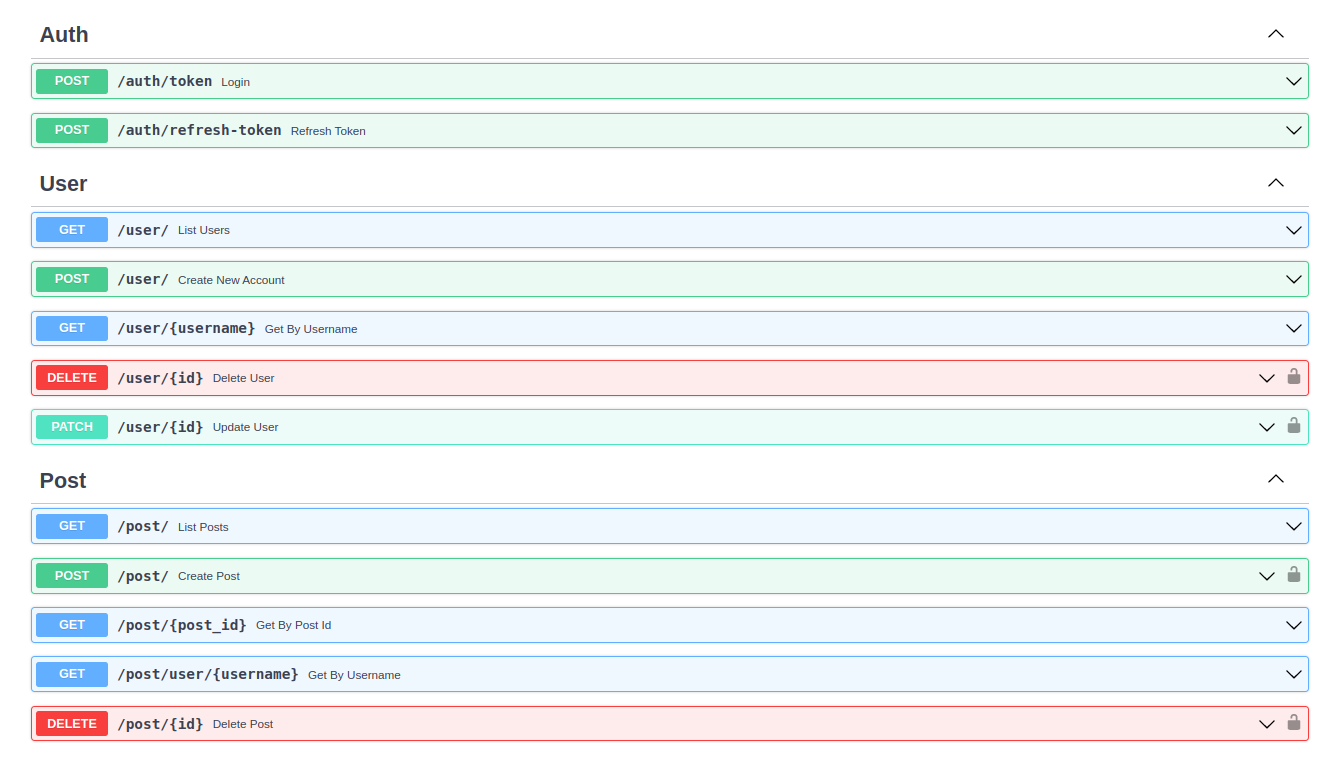
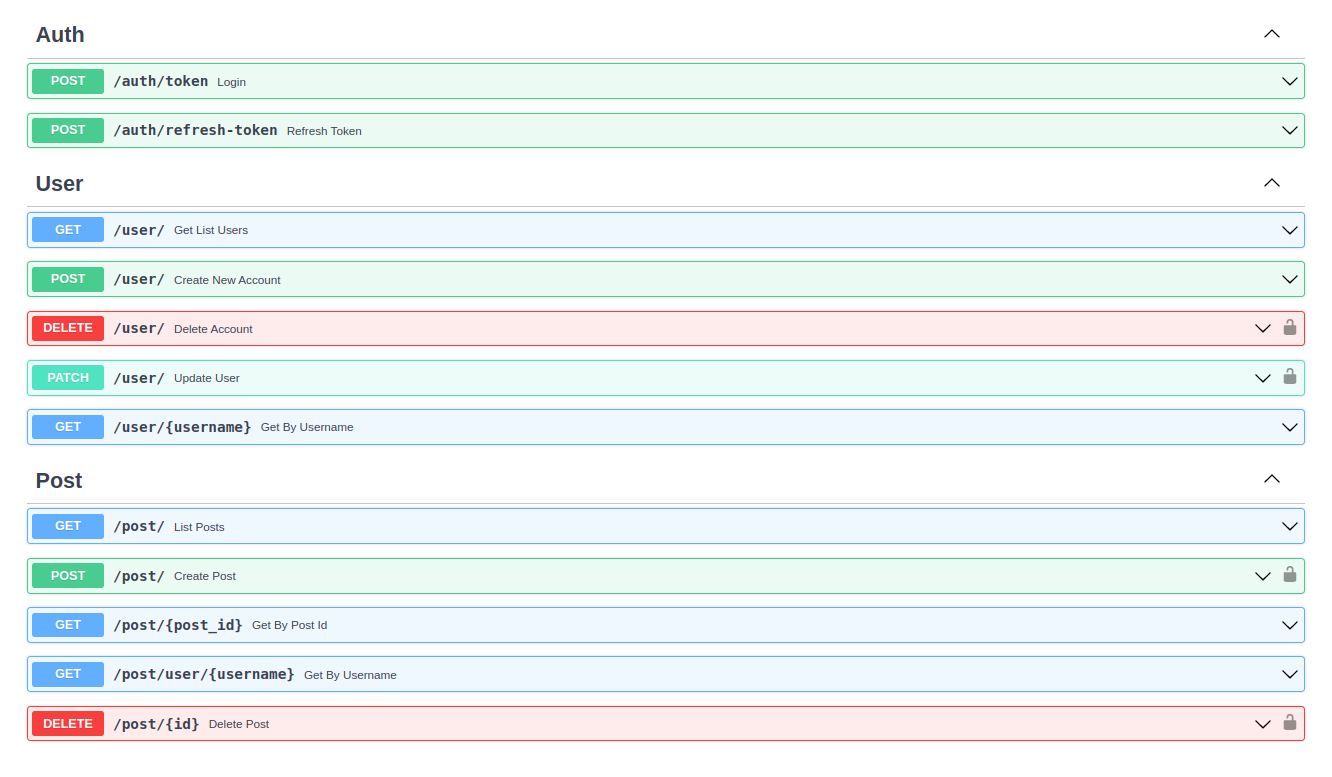
docs: update(README, Tasks, Tests, Endpoints.png)

diff --git a/fastapi/docs/README.md b/fastapi/docs/README.md
@@ -1,31 +1,59 @@
 # FastAPI
 
+
+![](endpoints.png)
+
 Aplicação WEB - API usando FastAPI
+
+O projeto será modelado no contexto de um Blog, afim de utilizar CRUD nas routes e diferentes tipos de Relacionamentos do banco de dados.
 
 > - Para construir o projeto isolei cada aplicação em seu próprio ecosistema e embiente virtual. 
 > - Ambos possuem a mesma estrutura e finalidade, porém aplicadas em Frameworks diferentes.
+
+> [Progresso das **Tarefas**](tasks.md)
+
+> [Progresso dos **Testes**](tests.md)
 
 ---
 ## Resumo 
 - [FastAPI](#fastapi)
   - [Resumo](#resumo)
-  - [Requisitos](#requisitos)
-  - [Ambiente](#ambiente)
   - [Funcionalidades](#funcionalidades)
     - [Usuários](#usuários)
     - [Postagens](#postagens)
+  - [Requisitos](#requisitos)
+  - [Ambiente](#ambiente)
+  - [Iniciar o servidor](#iniciar-o-servidor)
+  - [Testes](#testes)
   - [Estrutura](#estrutura)
-  - [O Projeto](#o-projeto)
-  - [Rodar os Testes](#rodar-os-testes)
-  - [Endpoints](#endpoints)
 ---
+
+## Funcionalidades
+
+### Usuários
+
+- Registro de novos usuários
+- Autenticação de usuários
+- Atualizar dados
+- Deletar conta
+
+### Postagens
+
+- Criação de novo post
+- Edição de post
+- Remoção de post
+- Listagem de posts geral (home)
+- Listagem de posts seguidos (timeline)
+- Likes em postagens
+- Postagem pode ser resposta a outra postagem
+
 
 ## Requisitos
 
 - Git
 - Python 3.10
-- virtualenv
-- Um editor de códigos como VSCode, Sublime, Vim, Pycharm, Micro...
+- virtualenv ou semelhante
+- Um editor de códigos como VSCode, Sublime, Vim, Pycharm ...
 
 
 ## Ambiente
@@ -59,74 +87,7 @@ pip install -r requirements.txt
 pip install -r requirements-test.txt
 ```
 
-
-## Funcionalidades
-
-### Usuários
-
-- Registro de novos usuários
-- Autenticação de usuários
-
-### Postagens
-
-- Criação de novo post
-- Edição de post
-- Remoção de post
-- Listagem de posts geral (home)
-- Listagem de posts seguidos (timeline)
-- Likes em postagens
-- Postagem pode ser resposta a outra postagem
-
-## Estrutura
-
-```console
-.
-├── app
-│   ├── controllers
-│   │   ├── decorators
-│   │   │   └── post_user.py
-│   │   └── user_controller.py
-│   ├── __init__.py
-│   ├── models
-│   │   ├── post
-│   │   │   └── __init__.py
-│   │   └── user
-│   │       ├── __init__.py
-│   │       ├── user.py
-│   │       ├── user_request.py
-│   │       └── user_response.py
-│   ├── routes.py
-│   └── utils
-│       ├── login_required.py
-│       └── token_jwt.py
-├── docs
-│   ├── README.md
-│   └── tasks.md
-├── requirements.txt
-├── setup.py
-└── tests
-    ├── conftest.py
-    ├── __init__.py
-    ├── models
-    │   ├── __init__.py
-    │   └── test_user.py
-    ├── routes
-    │   ├── __init__.py
-    │   └── test_user.py
-    ├── unity
-    │   ├── __init__.py
-    │   └── test_token_jwt.py
-    └── utils
-        ├── token.py
-        └── user.py
-
-13 directories, 25 files
-```
-
-
-## O Projeto
-
-O projeto será modelado no contexto de um Blog, afim de utilizar CRUD nas routes e diferentes tipos de Relacionamentos do banco de dados.
+## Iniciar o servidor
 
 Inicie o localhost
 
@@ -143,13 +104,65 @@ Acesse o docs de endpoints do Fastapi em:
 http://127.0.0.1:8000/docs#/ ou http://127.0.0.1:8000/redoc/
 
 
-## Rodar os Testes
+## Testes
 
 ```console
 cd fastapi/tests
 pytest
 ```
 
-## Endpoints
+## Estrutura
 
-![](endpoints.png)
+```console
+.
+├── app
+│   ├── controllers
+│   │   ├── auth.py
+│   │   ├── decorators
+│   │   │   ├── auth_controller.py
+│   │   │   └── user_controller.py
+│   │   ├── post.py
+│   │   └── user.py
+│   ├── __init__.py
+│   ├── models
+│   │   ├── post
+│   │   │   └── __init__.py
+│   │   ├── token
+│   │   │   ├── __init__.py
+│   │   │   └── token_model.py
+│   │   └── user
+│   │       ├── __init__.py
+│   │       ├── user.py
+│   │       ├── user_request.py
+│   │       └── user_response.py
+│   ├── routes.py
+│   └── utils
+│       ├── login_required.py
+│       └── token_jwt.py
+├── docs
+│   ├── endpoints.png
+│   ├── README.md
+│   ├── tasks.md
+│   └── tests.md
+├── requirements.txt
+├── setup.py
+└── tests
+    ├── conftest.py
+    ├── __init__.py
+    ├── models
+    │   ├── __init__.py
+    │   └── test_user.py
+    ├── pytest.ini
+    ├── routes
+    │   ├── __init__.py
+    │   ├── test_auth.py
+    │   └── test_user.py
+    ├── unity
+    │   ├── __init__.py
+    │   └── test_token_jwt.py
+    └── utils
+        ├── token.py
+        └── user.py
+
+14 directories, 34 files
+```

diff --git a/fastapi/docs/tasks.md b/fastapi/docs/tasks.md
@@ -16,12 +16,12 @@
 
 ---
 ## User
-- [ ] Routes 
+- [x] Routes 
   - [x] Create
-  - [ ] Get-all
-  - [ ] Get-by-username
-  - [ ] Delete
-  - [ ] Update   
+  - [x] Get-all
+  - [x] Get-by-username
+  - [x] Delete
+  - [x] Update   
 - [x] Models
   - [x] UserModel
   - [x] UserResponse

diff --git a/fastapi/docs/tests.md b/fastapi/docs/tests.md
@@ -16,12 +16,12 @@
 
 ---
 ## User
-- [ ] Routes 
+- [x] Routes 
   - [x] Create
-  - [ ] Get-all
-  - [ ] Get-by-username
-  - [ ] Delete
-  - [ ] Update   
+  - [x] Get-all
+  - [x] Get-by-username
+  - [x] Delete
+  - [x] Update   
 - [x] Models
   - [x] UserModel
   - [x] UserResponse
